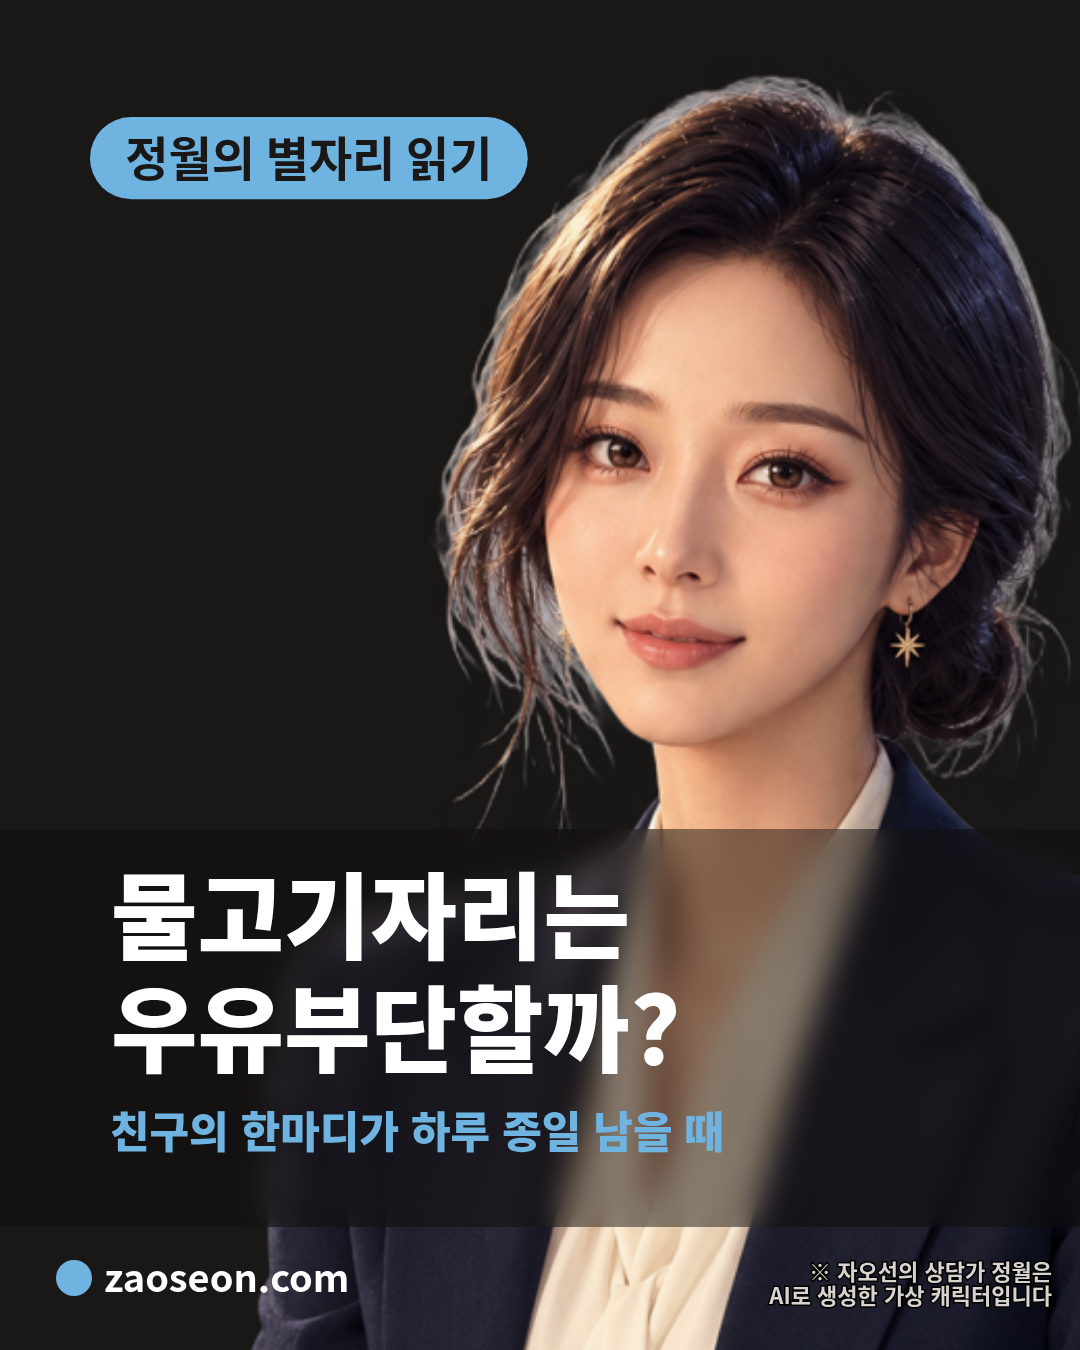
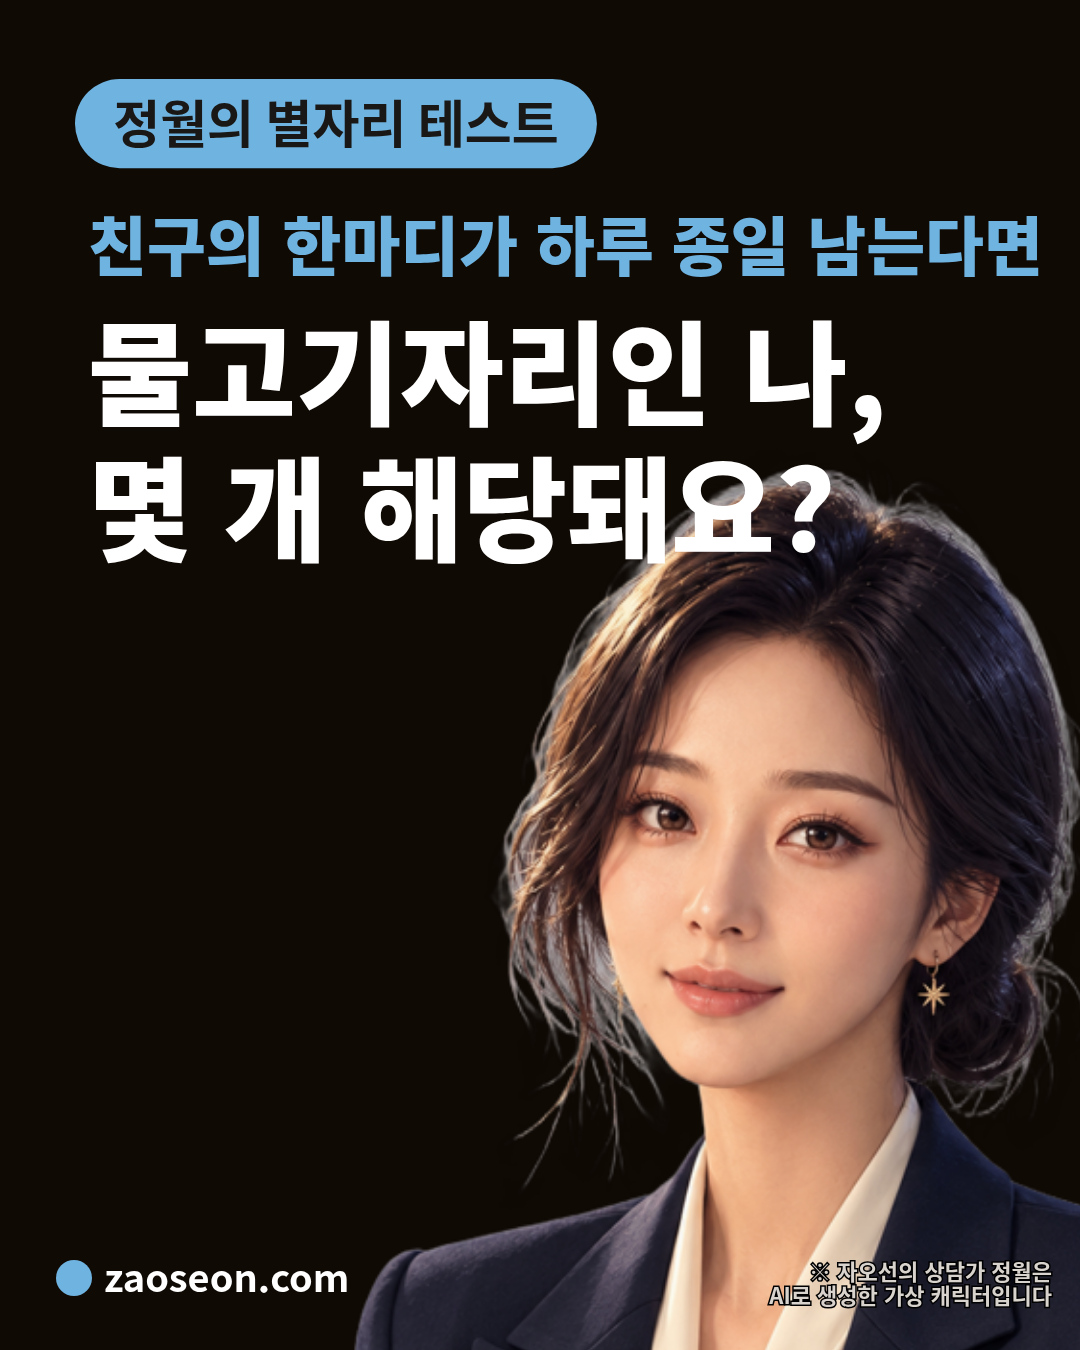
물고기자리 카드를 번호로 답하는 자가진단 틀로 다시 만듦(실측 반응 기준)

diff --git a/content/pisces_sample_sets.py b/content/pisces_sample_sets.py
@@ -1,13 +1,13 @@
 # -*- coding: utf-8 -*-
-"""10/4 샘플: 물고기자리 주제(네이버 n48 10/6, 사이트 글 10/7)의 인스타 3장 카드 샘플 1세트. 문장은 n48 원고에 있는 내용만 쓴다.
-틀: 오해 풀기(night_sets_w42 와 같은 구조). 대표 확인 전까지 예약하지 않는다."""
+"""물고기자리 카드(네이버 n48 10/6, 사이트 글 10/7과 같은 주제). 10/4 Metricool 실측: 번호로 답하게 하는 자가진단이 반응(댓글·저장)이 가장 컸다.
+문장은 n48 원고(naver/pages.json)에 있는 내용만 쓴다."""
 def N(face, accent, kicker, sub, title, s2, s3, variant, date, systems):
     return dict(face=face, accent=accent, kicker=kicker, coverSub=sub, coverTitle=title, badges=[s2[0], s3[0], s3[0], s3[0]],
                 body=[(s2[1], s2[2]), (s3[1], s3[2]), (s3[1], s3[2]), (s3[1], s3[2])], advice=("x", "x"), ctaQ="x", nextTitle="x",
                 variant=variant, date=date, systems=systems)
 SETS = {
- "sample-pisces": N("v1_lowbun", "#6fb3e0", "정월의 별자리 읽기", "친구의 한마디가 하루 종일 남을 때", "물고기자리는\n우유부단할까?",
-   ("오해", "결정을 못 하는\n게 아니에요", "결정 전에 주변 마음을\n먼저 읽느라 시간이 걸려요.\n마감을 먼저 말해 보세요."),
-   ("겹쳐 보면", "2027년,\n느린 별이 떠나요", "해왕성과 토성이\n양자리로 옮겨 가요.\n방향을 직접 정하는 해예요."),
-   {"cover": "C2", "advice": "A1", "cta": "T1"}, "sample-pisces", ["별자리", "사주"]),
+ "sample-pisces": N("v1_lowbun", "#6fb3e0", "정월의 별자리 테스트", "친구의 한마디가 하루 종일 남는다면", "물고기자리인 나,\n몇 개 해당돼요?",
+   ("선택지", "세 가지 중\n몇 개예요?", "1 친구 한마디가 하루 종일 남아요\n2 결정 전에 주변 기분부터 살펴요\n3 회의에서 누가 불편한지 먼저 봐요"),
+   ("겹쳐 보면", "우유부단이 아니라\n마음부터 읽는 거예요", "결정 전에 주변 마음을\n읽느라 시간이 걸려요.\n2027년엔 방향을 직접 정해요."),
+   {"cover": "C1", "advice": "A1", "cta": "T1"}, "sample-pisces", ["별자리", "사주"]),
 }
